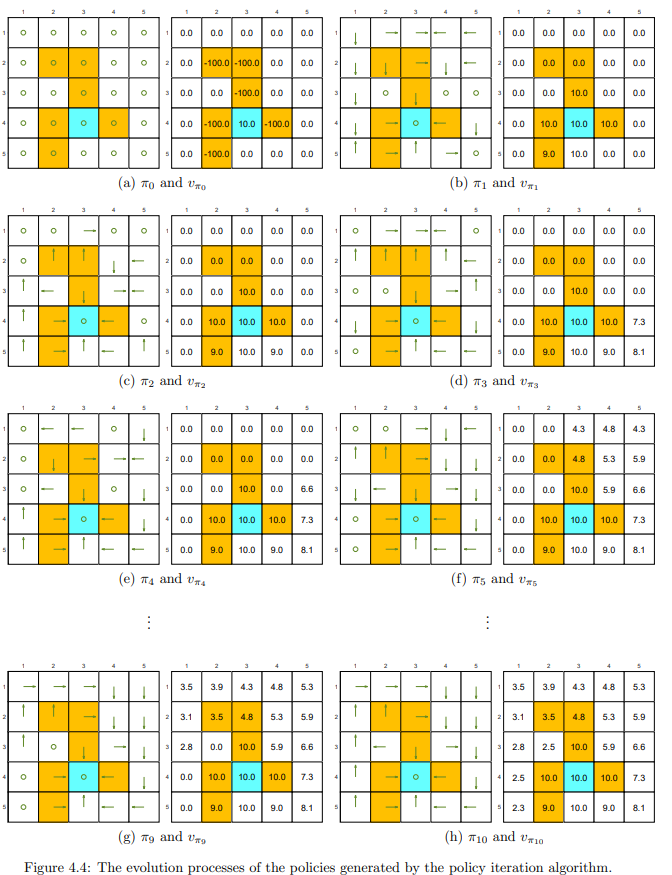
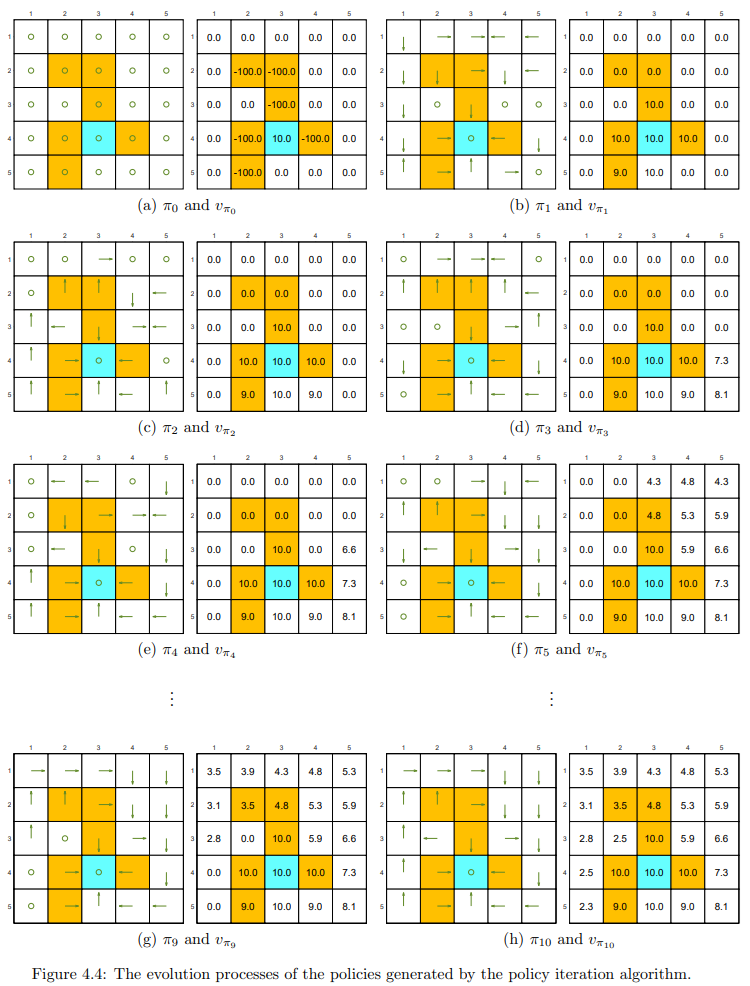
update chapter4

Changed region(s): [[0.0, 0.0, 1.0, 0.6789], [0.0, 0.7406, 1.0, 1.0]]

diff --git a/强化学习数学基础/Chapter4/README.md b/强化学习数学基础/Chapter4/README.md
@@ -194,7 +194,12 @@ $$
 
 策略迭代算法可以从初始的随机策略，最终收敛到最优策略。
 
+在迭代过程中观察到两个有趣的现象。
+- 靠近目标区域的状态比远离目标区域的状态更早找到最优策略。只有当比较靠近的状态能够首先找到到达目标的轨迹时，较远的状态才能找到通过靠近的状态到达目标的轨迹。
+- 状态价值的分布表现出一个有趣的模式：距离目标更近的状态具有更大的状态价值。这种模式的原因是，从更远的状态开始的 Agent 必须经过许多步骤才能获得正奖励，而且奖励将严重折扣，因此相对较小。
+
 ![](./assets/chapter4_policy_iteration_example.png)
+
 
 ## 截断策略迭代（Truncated policy iteration）
 

diff --git a/强化学习数学基础/README.md b/强化学习数学基础/README.md
@@ -6,7 +6,7 @@
 
 ## 章节目录
 
-- [Chapter1: 基本概念](./Chapter1/README.md)
-- [Chapter2: 状态价值和贝尔曼方程](./Chapter2/README.md)
-- [Chapter3: 最优状态价值和贝尔曼最优方程](./Chapter3/RAEDME.md)
+- [Chapter1：基本概念](./Chapter1/README.md)
+- [Chapter2：状态价值和贝尔曼方程](./Chapter2/README.md)
+- [Chapter3：最优状态价值和贝尔曼最优方程](./Chapter3/RAEDME.md)
 - [Chapter4：价值迭代和策略迭代](./Chapter4/README.md)
